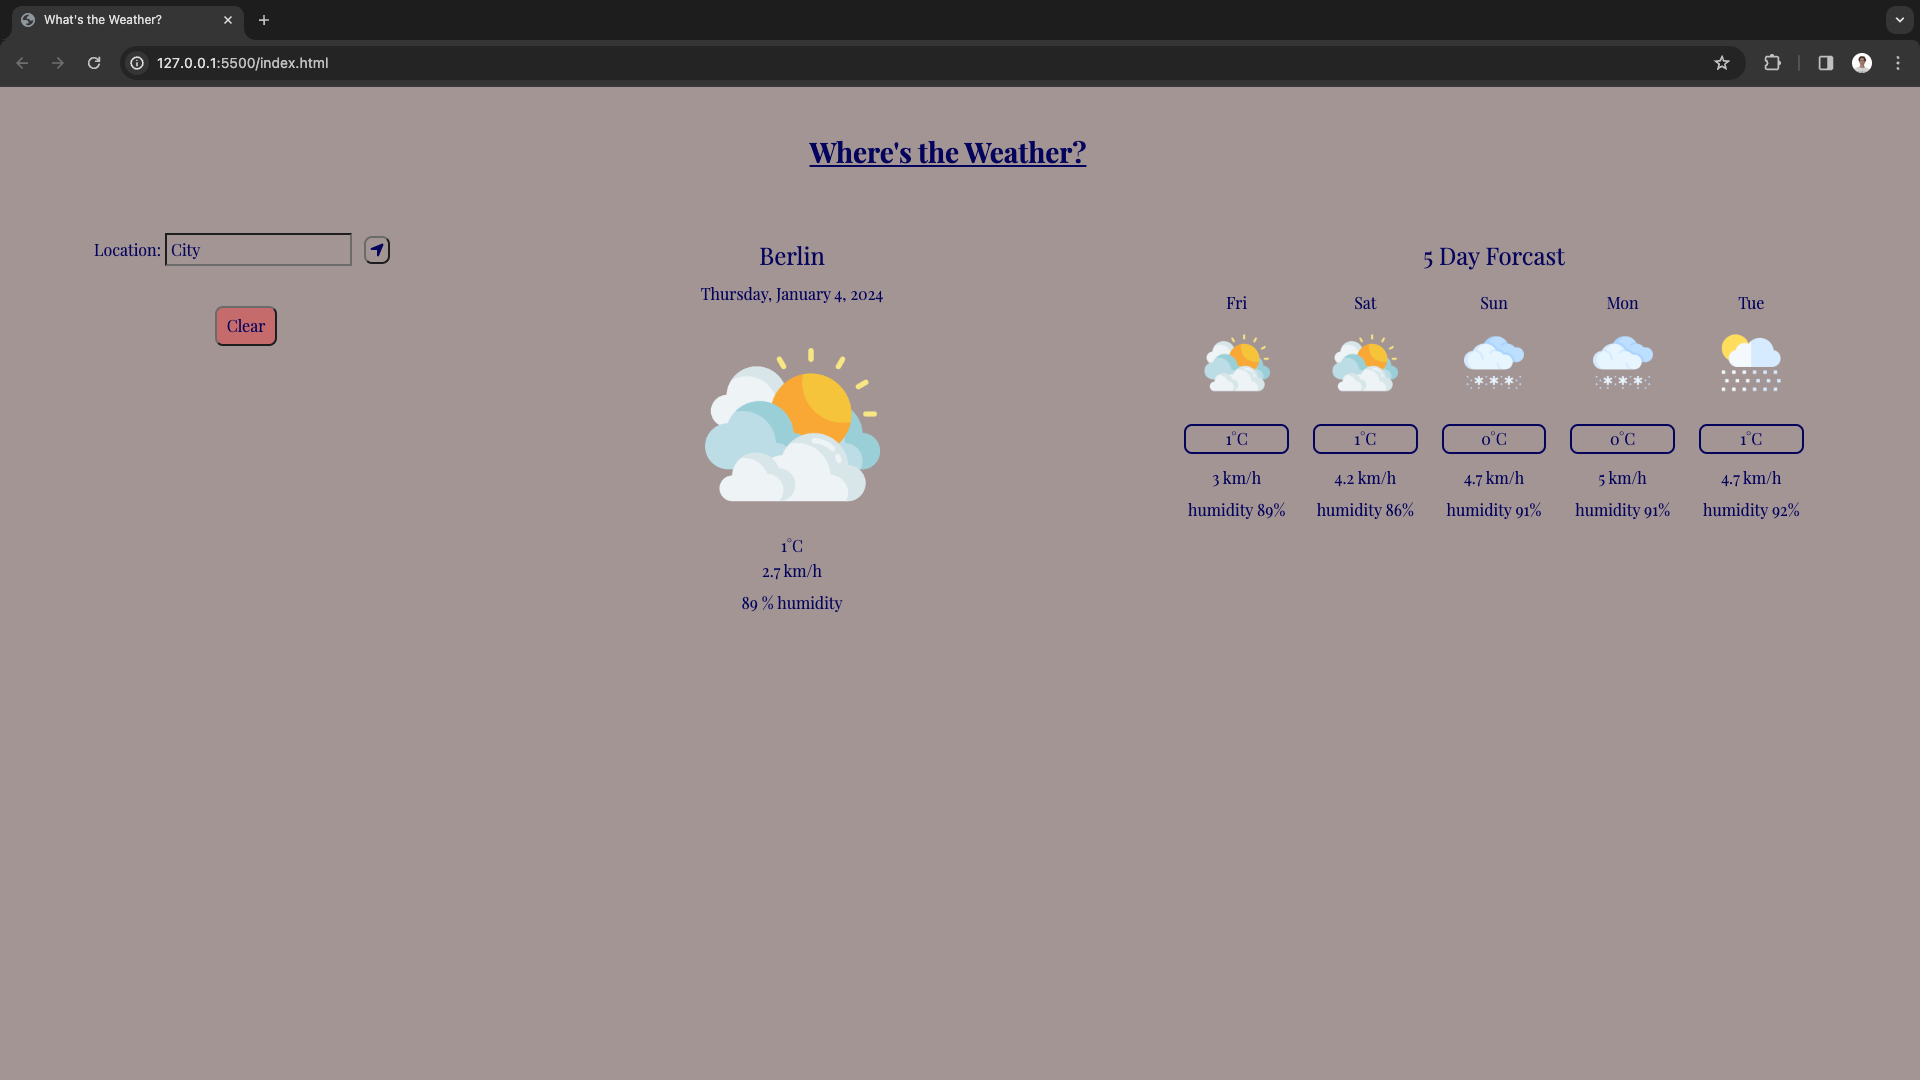
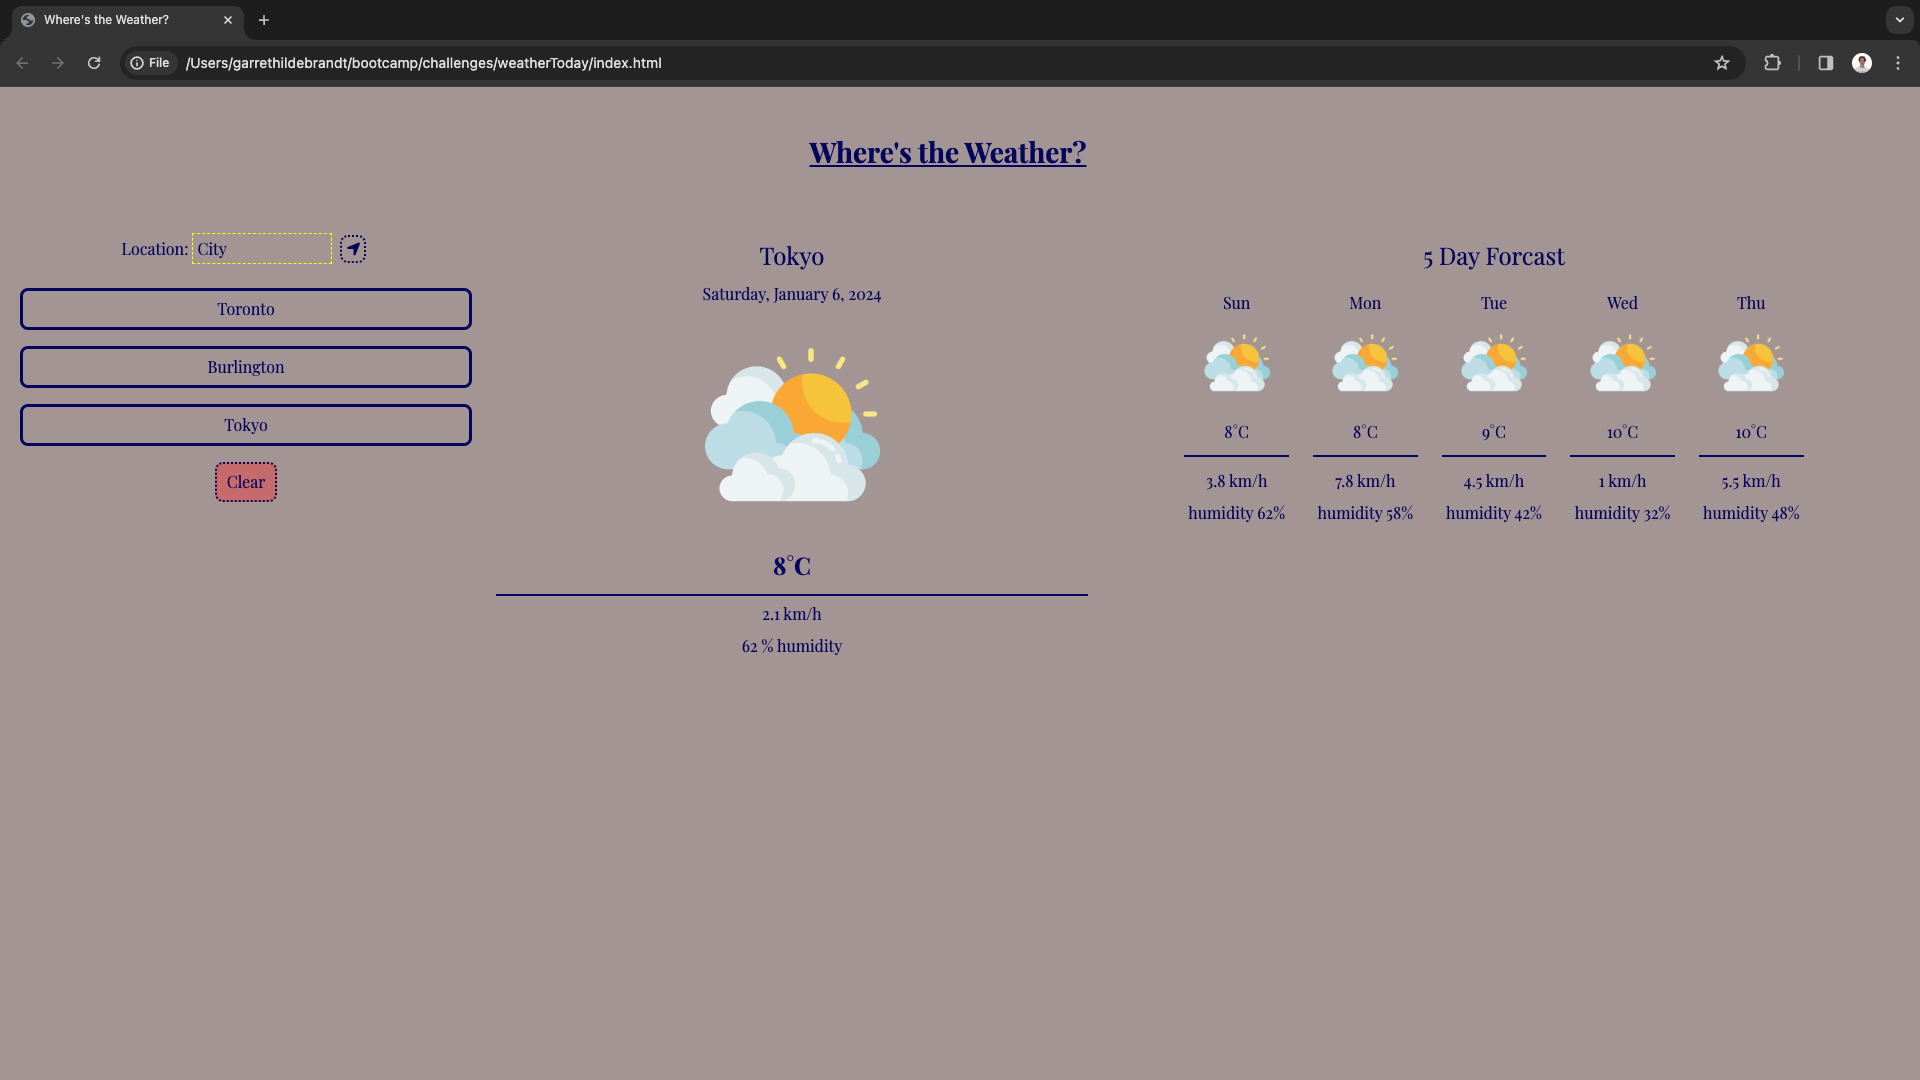
add to README

diff --git a/index.html b/index.html
@@ -3,7 +3,7 @@
   <head>
     <meta charset="UTF-8" />
     <meta name="viewport" content="width=device-width, initial-scale=1.0" />
-    <title>What's the Weather?</title>
+    <title>Where's the Weather?</title>
     <link
       rel="stylesheet"
       href="https://cdn.jsdelivr.net/npm/bootstrap@5.3.2/dist/css/bootstrap.min.css"
@@ -35,7 +35,7 @@
         <div id="search" class="col-sm-12 col-lg-6 col-xl-3 p-2 mb-3">
           <form class="mb-4" id="searchForm">
             <label for="location">Location:</label>
-            <input id="inputText" type="text" class="p-1" placeholder="City" />
+            <input autocomplete="off" id="inputText" type="text" class="p-1" placeholder="City" />
             <button id="searchButton" class="p-1 mx-1">
               <i class="fa-solid fa-location-arrow"></i>
             </button>
